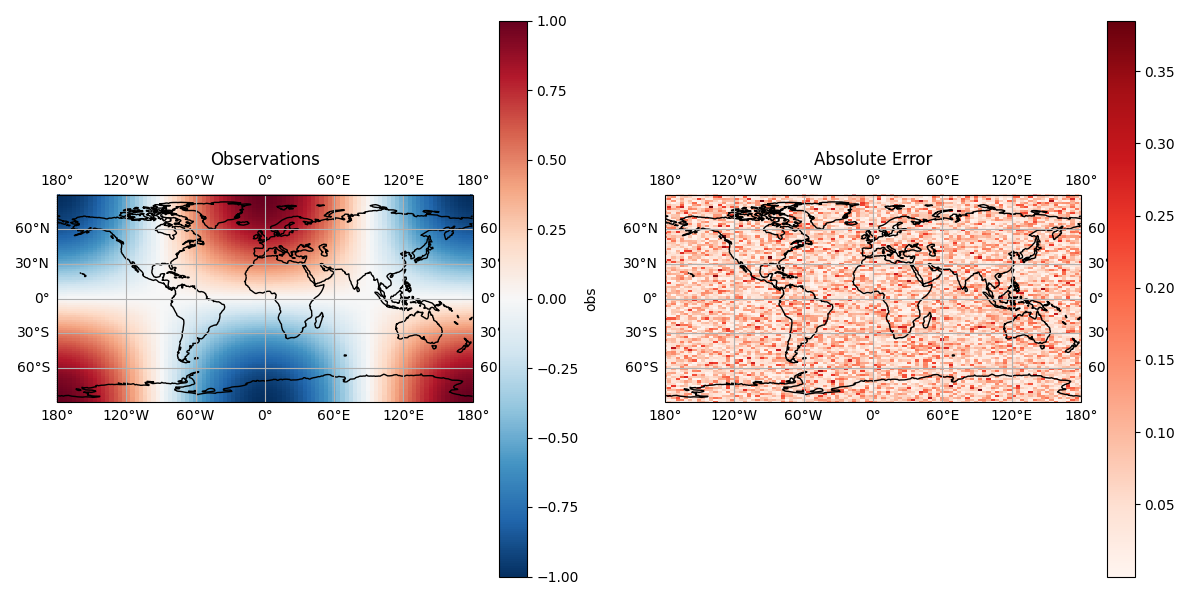
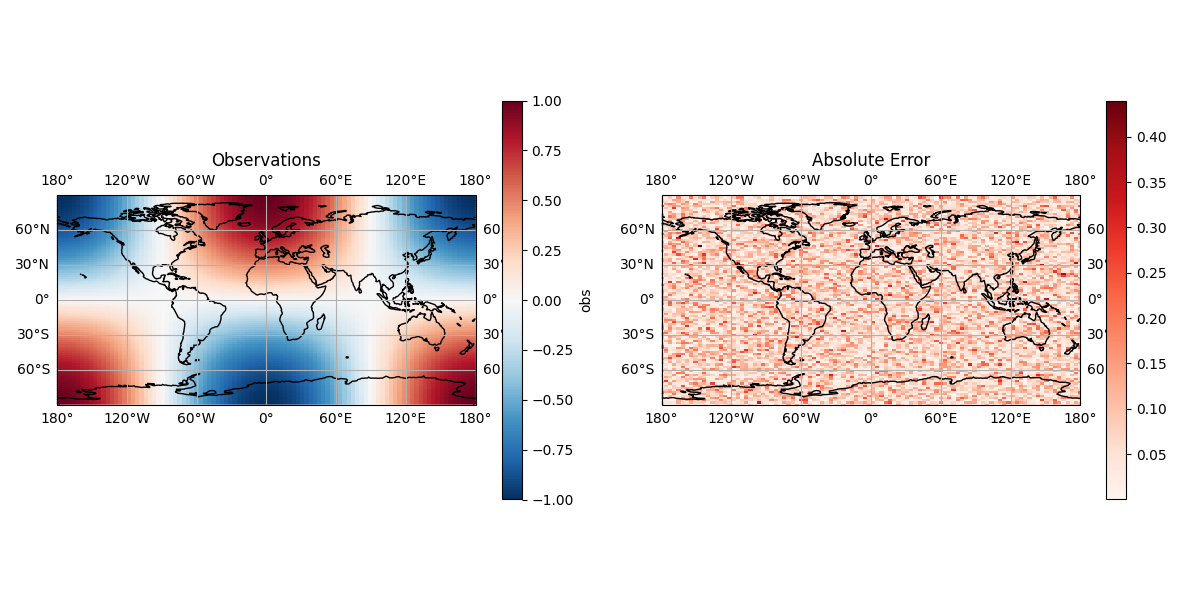
Fix colorbar height in visualization demo
- Adjusted `cbar_kwargs` in `scripts/visualize_metrics_refactor.py` to ensure colorbars match the height of geoaxes.
- Verified with local execution.

Changed region(s): [[0.5242, 0.03, 0.9867, 0.93], [0.0, 0.03, 0.4933, 0.96], [0.0, 0.42, 0.0308, 0.45]]

diff --git a/scripts/visualize_metrics_refactor.py b/scripts/visualize_metrics_refactor.py
@@ -31,12 +31,12 @@ def run_visualization_demo():
 
     # Subplot 1: Observations
     ax1 = fig.add_subplot(1, 2, 1, projection=ccrs.PlateCarree())
-    plot_spatial(obs, ax=ax1, title="Observations", cmap="RdBu_r")
+    plot_spatial(obs, ax=ax1, title="Observations", cmap="RdBu_r", cbar_kwargs={"shrink": 0.7})
 
     # Subplot 2: Local Error (Absolute Difference)
     ax2 = fig.add_subplot(1, 2, 2, projection=ccrs.PlateCarree())
     error = abs(mod - obs)
-    plot_spatial(error, ax=ax2, title="Absolute Error", cmap="Reds")
+    plot_spatial(error, ax=ax2, title="Absolute Error", cmap="Reds", cbar_kwargs={"shrink": 0.7})
 
     plt.tight_layout()
     plt.savefig("refactor_visualization_demo.png")
